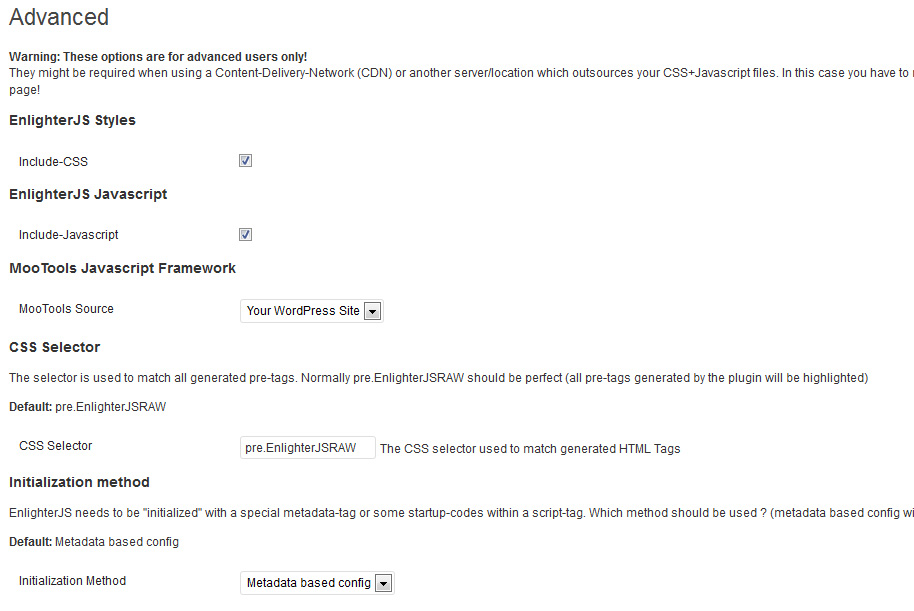
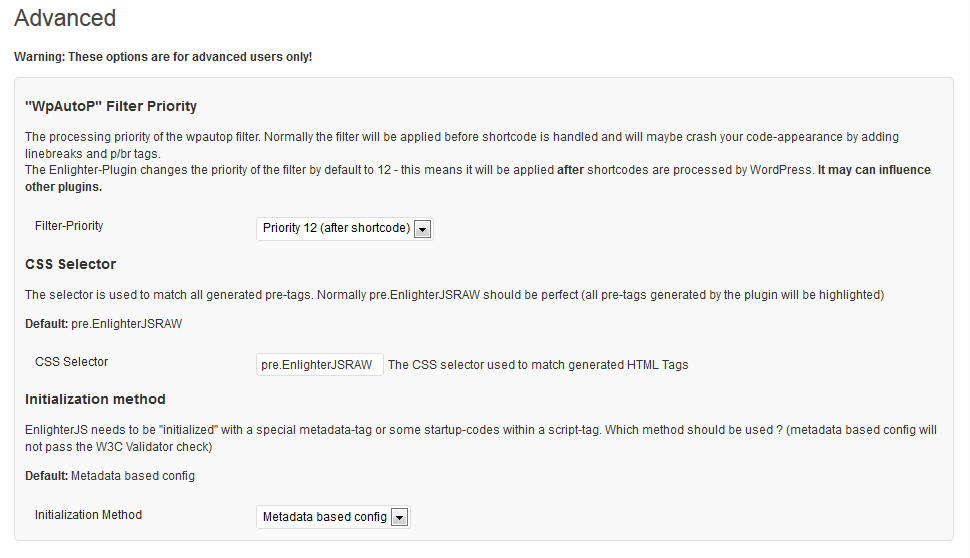
release 1.5, added enlighterjs 1.8, support for special line highlighting, bugfixes

diff --git a/resources/EnlighterJS.yui.js b/resources/EnlighterJS.yui.js
@@ -6,8 +6,8 @@ name: EnlighterJS
 description: Syntax Highlighter for MooTools - based on the famous Lighter.js
 
 license: MIT-style X11 License
-version: 1.7.1
-build: 6f3c1bcb2c530f0ea1e1f77a7f24a634/October 5 2013
+version: 1.8
+build: e44079501117bd7e1443d6d34b8383e7/November 10 2013
 
 authors:
   - Andi Dittrich (author of EnlighterJS fork)
@@ -25,10 +25,11 @@ provides: [EnlighterJS]
  */
 var EnlighterJS=new Class({Implements:Options,options:{language:"standard",theme:"standard",compiler:"List",indent:-1,forceTheme:false},compiler:null,codeblock:null,container:null,isRendered:false,aliasManager:null,initialize:function(c,b,a){this.setOptions(b);
 this.aliasManager=new EnlighterJS.Alias(b);if(EnlighterJS.Compiler[this.options.compiler]){this.compiler=new EnlighterJS.Compiler[this.options.compiler](b)}else{this.compiler=new EnlighterJS.Compiler.List(b)}this.codeblock=document.id(c);if(a){this.container=document.id(a)}return this},light:function(){this.codeblock.setStyle("display","none");if(this.isRendered){this.container.setStyle("display","inherit");
-return this}var c=this.getCode();var b=this.aliasManager.getLanguage(this.codeblock.get("data-enlighter-language"));var d=(this.options.forceTheme?null:this.codeblock.get("data-enlighter-theme"))||this.options.theme;language=new EnlighterJS.Language[b](c,{});var a=this.compiler.compile(language,d.toLowerCase());if(this.container){this.container.grab(a)}else{a.inject(this.codeblock,"after");this.container=a
-}this.isRendered=true;return this},unlight:function(){if(this.isRendered){this.codeblock.setStyle("display","inherit");this.container.setStyle("display","none")}return this},getCode:function(){var a=this.codeblock.get("html").replace(/(^\s*\n|\n\s*$)/gi,"").replace(/&lt;/gim,"<").replace(/&gt;/gim,">").replace(/&amp;/gim,"&");if(this.options.indent>-1){a=a.replace(/\t/g,new Array(this.options.indent+1).join(" "))
-}return a}});EnlighterJS.Compiler=new Class({Implements:Options,options:{editable:false},initialize:function(a){this.setOptions(a);return this},compile:function(c,b){var a=this._compile(c,b);a.addClass(b+"EnlighterJS");a.addClass("EnlighterJSRendered");a.set("id","EnlighterJS_"+String.uniqueID());if(this.options.editable){a.set("contenteditable","true")}return a},_compile:function(b,a){throw new Error("Extending classes must override the _compile method.")
-}});EnlighterJS.Language=new Class({Implements:[Options],options:{},language:"",tokenizerType:"Lazy",tokenizer:null,code:null,patterns:{},keywords:{},delimiters:{},common:{slashComments:/(?:^|[^\\])\/\/.*$/gm,poundComments:/#.*$/gm,multiComments:/\/\*[\s\S]*?\*\//gm,aposStrings:/'[^'\\]*(?:\\.[^'\\]*)*'/gm,quotedStrings:/"[^"\\]*(?:\\.[^"\\]*)*"/gm,multiLineSingleQuotedStrings:/'[^'\\]*(?:\\.[^'\\]*)*'/gm,multiLineDoubleQuotedStrings:/"[^"\\]*(?:\\.[^"\\]*)*"/gm,multiLineStrings:/'[^'\\]*(?:\\.[^'\\]*)*'|"[^"\\]*(?:\\.[^"\\]*)*"/gm,singleQuotedString:/'[^'\\\r\n]*(?:\\.[^'\\\r\n]*)*'/gm,doubleQuotedString:/"[^"\\\r\n]*(?:\\.[^"\\\r\n]*)*"/gm,strings:/'[^'\\\r\n]*(?:\\.[^'\\\r\n]*)*'|"[^"\\\r\n]*(?:\\.[^"\\\r\n]*)*"/gm,properties:/\.([\w]+)\s*/gi,methodCalls:/\.([\w]+)\s*\(/gm,functionCalls:/\b([\w]+)\s*\(/gm,brackets:/\{|\}|\(|\)|\[|\]/g,numbers:/\b((?:(\d+)?\.)?[0-9]+|0x[0-9A-F]+)\b/gi},initialize:function(b,a){this.setOptions(a);
+return this}var c=this.getCode();var b=this.aliasManager.getLanguage(this.codeblock.get("data-enlighter-language"));var e=(this.options.forceTheme?null:this.codeblock.get("data-enlighter-theme"))||this.options.theme;var d=new EnlighterJS.SpecialLineHighlighter(this.codeblock.get("data-enlighter-highlight"));language=new EnlighterJS.Language[b](c,{});var a=this.compiler.compile(language,e.toLowerCase(),d);
+if(this.container){this.container.grab(a)}else{a.inject(this.codeblock,"after");this.container=a}this.isRendered=true;return this},unlight:function(){if(this.isRendered){this.codeblock.setStyle("display","inherit");this.container.setStyle("display","none")}return this},getCode:function(){var a=this.codeblock.get("html").replace(/(^\s*\n|\n\s*$)/gi,"").replace(/&lt;/gim,"<").replace(/&gt;/gim,">").replace(/&amp;/gim,"&");
+if(this.options.indent>-1){a=a.replace(/\t/g,new Array(this.options.indent+1).join(" "))}return a}});EnlighterJS.SpecialLineHighlighter=new Class({specialLines:{},initialize:function(b){if(b==null||b.length==0){return}var a=b.split(",");a.each(function(f,c){var g=f.match(/([0-9]+)-([0-9]+)/);if(g!=null){var h=g[1].toInt();var e=g[2].toInt();if(e>h){for(var d=h;d<=e;d++){this.specialLines["l"+d]=true
+}}}else{this.specialLines["l"+f.toInt()]=true}}.bind(this))},isSpecialLine:function(a){return(this.specialLines["l"+a]||false)}});EnlighterJS.Compiler=new Class({Implements:Options,options:{editable:false},initialize:function(a){this.setOptions(a);return this},compile:function(d,c,b){var a=this._compile(d,c,b);a.addClass(c+"EnlighterJS");a.addClass("EnlighterJSRendered");a.set("id","EnlighterJS_"+String.uniqueID());
+if(this.options.editable){a.set("contenteditable","true")}return a},_compile:function(c,b,a){throw new Error("Extending classes must override the _compile method.")}});EnlighterJS.Language=new Class({Implements:[Options],options:{},language:"",tokenizerType:"Lazy",tokenizer:null,code:null,patterns:{},keywords:{},delimiters:{},common:{slashComments:/(?:^|[^\\])\/\/.*$/gm,poundComments:/#.*$/gm,multiComments:/\/\*[\s\S]*?\*\//gm,aposStrings:/'[^'\\]*(?:\\.[^'\\]*)*'/gm,quotedStrings:/"[^"\\]*(?:\\.[^"\\]*)*"/gm,multiLineSingleQuotedStrings:/'[^'\\]*(?:\\.[^'\\]*)*'/gm,multiLineDoubleQuotedStrings:/"[^"\\]*(?:\\.[^"\\]*)*"/gm,multiLineStrings:/'[^'\\]*(?:\\.[^'\\]*)*'|"[^"\\]*(?:\\.[^"\\]*)*"/gm,singleQuotedString:/'[^'\\\r\n]*(?:\\.[^'\\\r\n]*)*'/gm,doubleQuotedString:/"[^"\\\r\n]*(?:\\.[^"\\\r\n]*)*"/gm,strings:/'[^'\\\r\n]*(?:\\.[^'\\\r\n]*)*'|"[^"\\\r\n]*(?:\\.[^"\\\r\n]*)*"/gm,properties:/\.([\w]+)\s*/gi,methodCalls:/\.([\w]+)\s*\(/gm,functionCalls:/\b([\w]+)\s*\(/gm,brackets:/\{|\}|\(|\)|\[|\]/g,numbers:/\b((?:(\d+)?\.)?[0-9]+|0x[0-9A-F]+)\b/gi},initialize:function(b,a){this.setOptions(a);
 this.aliases={};this.rules={};this.code=b;this.tokenizer=new EnlighterJS.Tokenizer[this.tokenizerType](a);if(this.delimiters.start){this.addRule("delimBeg",this.delimiters.start,"de1")}if(this.delimiters.end){this.addRule("delimEnd",this.delimiters.end,"de2")}Object.each(this.keywords,function(d,c){if(d.csv!=""){this.addRule(c,this.csvToRegExp(d.csv,d.mod||"g"),d.alias)}},this);Object.each(this.patterns,function(c,d){this.addRule(d,c.pattern,c.alias)
 },this)},getTokens:function(){return this.tokenizer.parse(this,this.code,0)},getRules:function(){return this.rules},hasDelimiters:function(){return this.delimiters.start&&this.delimiters.end},addRule:function(c,b,a){this.rules[c]=b;this.addAlias(c,a)},addAlias:function(b,a){this.aliases[b]=a||b},csvToRegExp:function(a,b){return new RegExp("\\b("+a.replace(/,\s*/g,"|")+")\\b",b)},delimToRegExp:function(d,b,a,e,f){d=d.escapeRegExp();
 if(b){b=b.escapeRegExp()}a=(a)?a.escapeRegExp():d;var c=(b)?d+"[^"+a+b+"\\n]*(?:"+b+".[^"+a+b+"\\n]*)*"+a:d+"[^"+a+"\\n]*"+a;return new RegExp(c+(f||""),e||"")},strictRegExp:function(){var b="(";for(var a=0;a<arguments.length;a++){b+=arguments[a].escapeRegExp();b+=(a<arguments.length-1)?"|":""}b+=")";return new RegExp(b,"gim")}});EnlighterJS.Language.standard=new Class({Extends:EnlighterJS.Language,initialize:function(a){this.parent(a)
@@ -36,16 +37,16 @@ if(b){b=b.escapeRegExp()}a=(a)?a.escapeRegExp():d;var c=(b)?d+"[^"+a+b+"\\n]*(?:
 }if(a==null||a.trim()==""){return b}a=a.trim().toLowerCase();if(this.languageAliases[a]){a=this.languageAliases[a]}if(EnlighterJS.Language[a]){return a}else{return b}}});(function(){Element.implement({light:function(a){var b=this.retrieve("EnlighterInstance");if(b===null){b=new EnlighterJS(this,a,null);this.store("EnlighterInstance",b)}b.light();return this},unlight:function(){var a=this.retrieve("EnlighterInstance");
 if(a!==null){a.unlight()}return this}})})();EnlighterJS.Tokenizer=new Class({Implements:[Options],options:{strict:false},initialize:function(a){this.setOptions(a)},parse:function(h,c,g){var d=[],f=null,b=null;d=this._parse(h,c,g);for(var a=0,e=0;a<d.length;a++){if(e<d[a].index){f=c.substring(e,d[a].index);b=new EnlighterJS.Token(f,"unknown",e);d.splice(a,0,b)}e=d[a].end}if(e<c.length){f=c.substring(e,c.length);
 b=new EnlighterJS.Token(f,"unknown",e);d.push(b)}return d},_parse:function(c,a,b){throw new Error("Extending classes must override the _parse method.")}});EnlighterJS.Token=new Class({text:null,type:null,index:-1,length:-1,end:-1,initialize:function(c,b,a){this.text=c;this.type=b;this.index=a;this.length=this.text.length;this.end=this.index+this.length},contains:function(a){return(a.index>=this.index&&a.index<this.end)
-},isBeyond:function(a){return(this.index>=a.end)},overlaps:function(a){return(this.index==a.index&&this.length>a.length)},toString:function(){return this.index+" - "+this.text+" - "+this.end}});EnlighterJS.Compiler.Inline=new Class({Extends:EnlighterJS.Compiler,options:{containerTag:"pre"},initialize:function(a){this.parent(a)},_compile:function(c,b){var a=new Element(this.options.containerTag);c.getTokens().each(function(e,d){var f=e.type?(c.aliases[e.type]||e.type):"";
-a.grab(new Element("span",{"class":f,text:e.text}))});return a}});EnlighterJS.Compiler.List=new Class({Extends:EnlighterJS.Compiler,options:{altLines:"hoverEnabled",containerTag:"ol",oddClassname:"odd",evenClassname:"even"},initialize:function(a){this.parent(a)},_compile:function(d,b){var a=new Element(this.options.containerTag);var c=new Element("li");d.getTokens().each(function(g,f){var h=g.type?(d.aliases[g.type]||g.type):"";
-var e=g.text.split("\n");if(e.length>1){c.grab(new Element("span",{"class":h,text:e.shift()}));e.each(function(j,i){a.grab(c);c=new Element("li");c.grab(new Element("span",{"class":h,text:j}))})}else{c.grab(new Element("span",{"class":h,text:g.text}))}});a.grab(c);a.getFirst().addClass("firstline");a.getLast().addClass("lastline");if(this.options.evenClassname){a.getElements("li:even").addClass(this.options.evenClassname)
-}if(this.options.oddClassname){a.getElements("li:odd").addClass(this.options.oddClassname)}if(this.options.altLines){a.getChildren().addClass(this.options.altLines)}return a}});EnlighterJS.Tokenizer.Smart=new Class({Extends:EnlighterJS.Tokenizer,initialize:function(a){this.parent(a)},_parse:function(o,a,c){var i=[],l=0,k=a.length,p=0,d=null,n=null,h=null,g=null,m={},e=null,f=null;c=c||0;Object.each(o.getRules(),function(q,r){m[r]={pattern:q,nextIndex:0}
-},this);while(l<a.length){k=a.length;d=null;for(var j in m){m[j].pattern.lastIndex=l;e=m[j].pattern.exec(a);if(e===null){delete m[j]}else{if(e.index<k||(e.index==k&&d[0].length<e[0].length)){d=e;h=j;k=e.index}m[j].nextIndex=m[j].pattern.lastIndex-e[0].length}}if(d!==null){index=(d[1]&&d[0].contains(d[1]))?d.index+d[0].indexOf(d[1]):d.index;n=d[1]||d[0];g=new EnlighterJS.Token(n,h,index+c);i.push(g);
-f=m[h].pattern.exec(a);if(!f){m[h].nextIndex=a.length}else{m[h].nextIndex=m[h].pattern.lastIndex-f[0].length}var b=a.length;for(j in m){if(m[j].nextIndex<b){b=m[j].nextIndex}}l=Math.max(b,g.end-c)}else{break}}return i}});EnlighterJS.Tokenizer.Lazy=new Class({Extends:EnlighterJS.Tokenizer,initialize:function(a){this.parent(a)},_parse:function(d,a,c){var h=[],f=null,k=null,g=null;c=c||0;Object.each(d.getRules(),function(i,j){while(null!==(f=i.exec(a))){g=f[1]&&f[0].contains(f[1])?f.index+f[0].indexOf(f[1]):f.index;
-k=f[1]||f[0];h.push(new EnlighterJS.Token(k,j,g+c))}},this);h=h.sort(function(j,i){return j.index-i.index});for(var e=0,b=0;e<h.length;e++){if(h[e]===null){continue}for(b=e+1;b<h.length&&h[e]!==null;b++){if(h[b]===null){continue}else{if(h[b].isBeyond(h[e])){break}else{if(h[b].overlaps(h[e])){h[e]=null}else{if(h[e].contains(h[b])){h[b]=null}}}}}}h=h.clean();return h}});EnlighterJS.Tokenizer.Xml=new Class({Extends:EnlighterJS.Tokenizer,initialize:function(a){this.parent(a)
-},_parse:function(b,a,d){var e=/((?:\&lt;|<)[A-Z][A-Z0-9]*)(.*?)(\/?(?:\&gt;|>))/gi,l=/\b([\w-]+)([ \t]*)(=)([ \t]*)(['"][^'"]+['"]|[^'" \t]+)/gi,m=[],h=null,g=null,k=0;while((h=e.exec(a))!=null){m.push(new EnlighterJS.Token(h[1],"kw1",h.index));while((g=l.exec(h[2]))!=null){k=h.index+h[1].length+g.index;m.push(new EnlighterJS.Token(g[1],"kw2",k));k+=g[1].length+g[2].length;m.push(new EnlighterJS.Token(g[3],"kw1",k));
-k+=g[3].length+g[4].length;m.push(new EnlighterJS.Token(g[5],"kw3",k))}m.push(new EnlighterJS.Token(h[3],"kw1",h.index+h[1].length+h[2].length))}Object.each(b.getRules(),function(i,j){while(null!==(h=i.exec(a))){k=h[1]&&h[0].contains(h[1])?h.index+h[0].indexOf(h[1]):h.index;text=h[1]||h[0];m.push(new EnlighterJS.Token(text,j,k+d))}},this);m=m.sort(function(j,i){return j.index-i.index});for(var f=0,c=0;
-f<m.length;f++){if(m[f]===null){continue}for(c=f+1;c<m.length&&m[f]!==null;c++){if(m[c]===null){continue}else{if(m[c].isBeyond(m[f])){break}else{if(m[c].overlaps(m[f])){m[f]=null}else{if(m[f].contains(m[c])){m[c]=null}}}}}}m=m.clean();return m}});EnlighterJS.Helper=new Class({Implements:Options,options:{grouping:true,theme:"standard",language:"standard"},initialize:function(b,a){this.setOptions(a);
+},isBeyond:function(a){return(this.index>=a.end)},overlaps:function(a){return(this.index==a.index&&this.length>a.length)},toString:function(){return this.index+" - "+this.text+" - "+this.end}});EnlighterJS.Compiler.Inline=new Class({Extends:EnlighterJS.Compiler,options:{containerTag:"pre"},initialize:function(a){this.parent(a)},_compile:function(d,c,b){var a=new Element(this.options.containerTag);d.getTokens().each(function(f,e){var g=f.type?(d.aliases[f.type]||f.type):"";
+a.grab(new Element("span",{"class":g,text:f.text}))});return a}});EnlighterJS.Compiler.List=new Class({Extends:EnlighterJS.Compiler,options:{altLines:"hoverEnabled",containerTag:"ol",oddClassname:"odd",evenClassname:"even"},initialize:function(a){this.parent(a)},_compile:function(f,d,c){var b=new Element(this.options.containerTag);var a=1;var e=new Element("li",{"class":(c.isSpecialLine(a)?"specialline":"")});
+f.getTokens().each(function(i,h){var j=i.type?(f.aliases[i.type]||i.type):"";var g=i.text.split("\n");if(g.length>1){e.grab(new Element("span",{"class":j,text:g.shift()}));g.each(function(l,k){b.grab(e);a++;e=new Element("li",{"class":(c.isSpecialLine(a)?"specialline":"")});e.grab(new Element("span",{"class":j,text:l}))})}else{e.grab(new Element("span",{"class":j,text:i.text}))}});b.grab(e);b.getFirst().addClass("firstline");
+b.getLast().addClass("lastline");if(this.options.evenClassname){b.getElements("li:even").addClass(this.options.evenClassname)}if(this.options.oddClassname){b.getElements("li:odd").addClass(this.options.oddClassname)}if(this.options.altLines){b.getChildren().addClass(this.options.altLines)}return b}});EnlighterJS.Tokenizer.Smart=new Class({Extends:EnlighterJS.Tokenizer,initialize:function(a){this.parent(a)
+},_parse:function(o,a,c){var i=[],l=0,k=a.length,p=0,d=null,n=null,h=null,g=null,m={},e=null,f=null;c=c||0;Object.each(o.getRules(),function(q,r){m[r]={pattern:q,nextIndex:0}},this);while(l<a.length){k=a.length;d=null;for(var j in m){m[j].pattern.lastIndex=l;e=m[j].pattern.exec(a);if(e===null){delete m[j]}else{if(e.index<k||(e.index==k&&d[0].length<e[0].length)){d=e;h=j;k=e.index}m[j].nextIndex=m[j].pattern.lastIndex-e[0].length
+}}if(d!==null){index=(d[1]&&d[0].contains(d[1]))?d.index+d[0].indexOf(d[1]):d.index;n=d[1]||d[0];g=new EnlighterJS.Token(n,h,index+c);i.push(g);f=m[h].pattern.exec(a);if(!f){m[h].nextIndex=a.length}else{m[h].nextIndex=m[h].pattern.lastIndex-f[0].length}var b=a.length;for(j in m){if(m[j].nextIndex<b){b=m[j].nextIndex}}l=Math.max(b,g.end-c)}else{break}}return i}});EnlighterJS.Tokenizer.Lazy=new Class({Extends:EnlighterJS.Tokenizer,initialize:function(a){this.parent(a)
+},_parse:function(d,a,c){var h=[],f=null,k=null,g=null;c=c||0;Object.each(d.getRules(),function(i,j){while(null!==(f=i.exec(a))){g=f[1]&&f[0].contains(f[1])?f.index+f[0].indexOf(f[1]):f.index;k=f[1]||f[0];h.push(new EnlighterJS.Token(k,j,g+c))}},this);h=h.sort(function(j,i){return j.index-i.index});for(var e=0,b=0;e<h.length;e++){if(h[e]===null){continue}for(b=e+1;b<h.length&&h[e]!==null;b++){if(h[b]===null){continue
+}else{if(h[b].isBeyond(h[e])){break}else{if(h[b].overlaps(h[e])){h[e]=null}else{if(h[e].contains(h[b])){h[b]=null}}}}}}h=h.clean();return h}});EnlighterJS.Tokenizer.Xml=new Class({Extends:EnlighterJS.Tokenizer,initialize:function(a){this.parent(a)},_parse:function(b,a,d){var e=/((?:\&lt;|<)[A-Z][A-Z0-9]*)(.*?)(\/?(?:\&gt;|>))/gi,l=/\b([\w-]+)([ \t]*)(=)([ \t]*)(['"][^'"]+['"]|[^'" \t]+)/gi,m=[],h=null,g=null,k=0;
+while((h=e.exec(a))!=null){m.push(new EnlighterJS.Token(h[1],"kw1",h.index));while((g=l.exec(h[2]))!=null){k=h.index+h[1].length+g.index;m.push(new EnlighterJS.Token(g[1],"kw2",k));k+=g[1].length+g[2].length;m.push(new EnlighterJS.Token(g[3],"kw1",k));k+=g[3].length+g[4].length;m.push(new EnlighterJS.Token(g[5],"kw3",k))}m.push(new EnlighterJS.Token(h[3],"kw1",h.index+h[1].length+h[2].length))}Object.each(b.getRules(),function(i,j){while(null!==(h=i.exec(a))){k=h[1]&&h[0].contains(h[1])?h.index+h[0].indexOf(h[1]):h.index;
+text=h[1]||h[0];m.push(new EnlighterJS.Token(text,j,k+d))}},this);m=m.sort(function(j,i){return j.index-i.index});for(var f=0,c=0;f<m.length;f++){if(m[f]===null){continue}for(c=f+1;c<m.length&&m[f]!==null;c++){if(m[c]===null){continue}else{if(m[c].isBeyond(m[f])){break}else{if(m[c].overlaps(m[f])){m[f]=null}else{if(m[f].contains(m[c])){m[c]=null}}}}}}m=m.clean();return m}});EnlighterJS.Helper=new Class({Implements:Options,options:{grouping:true,theme:"standard",language:"standard"},initialize:function(b,a){this.setOptions(a);
 if(this.options.grouping){var c=this.getGroups(b);c.single.each(function(d){d.light(a)});this.options.forceTheme=true;Object.each(c.groups,function(e){var d=new EnlighterJS.TabPane();var f=this.options;f.theme=e[0].get("data-enlighter-theme")||this.options.theme;e.each(function(i,h){var g=d.addTab(i.get("data-enlighter-title")||i.get("data-enlighter-language")||f.language);(new EnlighterJS(i,f,g)).light()
 }.bind(this));d.getContainer().addClass(f.theme+"EnlighterJSTabPane");d.getContainer().inject(e[0],"before");d.selectTab(0)}.bind(this))}else{b.light(a)}},getGroups:function(c){var a={};var b=[];c.each(function(d){var e=d.get("data-enlighter-group");if(e){if(a[e]){a[e].push(d)}else{a[e]=[d]}}else{b.push(d)}});return{groups:a,single:b}}});EnlighterJS.TabPane=new Class({container:null,controlContainer:null,paneContainer:null,tabs:[],selectedTabIndex:0,initialize:function(a){this.container=new Element("div",{"class":"EnlighterJSTabPane"});
 this.container.addClass(a);this.controlContainer=new Element("ul",{"class":"controls"});this.paneContainer=new Element("div",{"class":"pane"});this.container.grab(this.controlContainer);this.container.grab(this.paneContainer)},selectTab:function(a){if(a<this.tabs.length){this.tabs[this.selectedTabIndex].pane.setStyle("display","none");this.tabs[this.selectedTabIndex].control.removeClass("selected");

diff --git a/resources/EnlighterJS.yui.css b/resources/EnlighterJS.yui.css
@@ -6,8 +6,8 @@ name: EnlighterJS
 description: Syntax Highlighter for MooTools - based on the famous Lighter.js
 
 license: MIT-style X11 License
-version: 1.7.1
-build: 97924d21c8ffba8e80364f64e2a7a4ab/October 5 2013
+version: 1.8
+build: 44fcaedaaa33f2910e4f7d44aac52557/November 10 2013
 
 authors:
   - Andi Dittrich (author of EnlighterJS fork)
@@ -24,20 +24,21 @@ provides: [EnlighterJS]
 ...
  */.EnlighterJSTabPane .controls{margin:0 0 0 40px;padding:0}.EnlighterJSTabPane .controls li{float:left;display:block;list-style:none;padding:3px 10px 3px 10px;margin:0 5px 0 5px;background-color:#f2f2f2;border-radius:5px;font-size:12px;color:#000;font-family:Courier,monospace;cursor:pointer}.EnlighterJSTabPane .controls li:hover{background-color:#e5e5e5}.EnlighterJSTabPane .controls .selected,.EnlighterJSTabPane .controls .selected:hover{background-color:#cfc}
 .EnlighterJSTabPane .pane{padding:5px 0 0 0;clear:left}.EnlighterJSRendered{font-family:Monaco,Courier,Monospace;font-size:10px;line-height:16px;overflow:auto;white-space:pre-wrap;word-wrap:break-word;margin:0;padding:0}pre.EnlighterJSRendered{background-color:#fff;padding:5px 5px 5px 15px}ol.EnlighterJSRendered{color:#939393;font-size:10px;background-color:#f2f2f2;color:#939393;margin:0 0 20px 0;padding:0;text-indent:0;list-style:decimal-leading-zero outside}
-ol.EnlighterJSRendered li{margin:0 0 0 40px;background-color:#fff;border-top:1px solid #fff;border-bottom:1px solid #fff;border-left:1px solid #939393;padding:0 5px 0 14px;line-height:14px;color:#939393;list-style:decimal-leading-zero outside;font-size:inherit}ol.EnlighterJSRendered li.firstline{padding-top:5px}ol.EnlighterJSRendered li.lastline{padding-bottom:5px}ol.EnlighterJSRendered li.hoverEnabled:hover{border-top:1px solid #eee;border-bottom:1px solid #eee;background-color:#f4f8fc}
-.EnlighterJSRendered span{color:#000;font-size:inherit;margin:0;padding:0;line-height:inherit;font-size:12px}.EnlighterJSRendered .kw1{color:#1b609a}.EnlighterJSRendered .kw2{color:#9a6f1b}.EnlighterJSRendered .kw3{color:#784e0c}.EnlighterJSRendered .kw4{color:#9a6f1b}.EnlighterJSRendered .co1{color:#888}.EnlighterJSRendered .co2{color:#888}.EnlighterJSRendered .st0{color:#489a1b}.EnlighterJSRendered .st1{color:#489a1b}
-.EnlighterJSRendered .st2{color:#489a1b}.EnlighterJSRendered .nu0{color:#70483d}.EnlighterJSRendered .me0{color:#666}.EnlighterJSRendered .me1{color:#666}.EnlighterJSRendered .br0{color:#444}.EnlighterJSRendered .sy0{color:#444}.EnlighterJSRendered .es0{color:#444}.EnlighterJSRendered .re0{color:#784e0c}.gitEnlighterJS{border-bottom:1px solid #eee;border-top:1px solid #eee;font-family:Courier,monospace}
-ol.gitEnlighterJS li{border:0;line-height:20px}ol.gitEnlighterJS li.hoverEnabled:hover{background-color:#ffc;border:0}ol.gitEnlighterJS{list-style-type:decimal}.gitEnlighterJS .de1{color:#cf6a4c}.gitEnlighterJS .de2{color:#cf6a4c}.gitEnlighterJS .kw1{color:#000;font-weight:bold}.gitEnlighterJS .kw2{color:#0086b3}.gitEnlighterJS .kw3{color:#458;font-weight:bold}.gitEnlighterJS .kw4{color:#990073}.gitEnlighterJS .co1{color:#998;font-style:italic}
-.gitEnlighterJS .co2{color:#998;font-style:italic}.gitEnlighterJS .st0{color:#d14}.gitEnlighterJS .st1{color:#d14}.gitEnlighterJS .st2{color:#d14}.gitEnlighterJS .nu0{color:#099}.gitEnlighterJS .me0{color:#0086b3}.gitEnlighterJS .me1{color:#0086b3}.gitEnlighterJS .br0{color:#777}.gitEnlighterJS .sy0{color:#777}.gitEnlighterJS .es0{color:#777}.gitEnlighterJS .re0{color:#009926}.mochaEnlighterJSTabPane .controls li{background-color:#e5e5e5;font-size:12px;color:#000;border-radius:0}
-.mochaEnlighterJSTabPane .controls .selected,.mochaEnlighterJSTabPane .controls .selected:hover{background-color:#bbccd5}.mochaEnlighterJS{color:#f8f8f8}ol.mochaEnlighterJS{background-color:#bbccd5;color:#000;list-style-type:decimal}ol.mochaEnlighterJS li{border:0;border-left:2px solid #939393;background-color:#2d2522}ol.mochaEnlighterJS li.hoverEnabled:hover{background-color:#423f43;border:0;border-left:2px solid #939393}
-pre.mochaEnlighterJS{background-color:#2d2522}.mochaEnlighterJS span{color:#f8f8f8}.mochaEnlighterJS .de1{color:#cf6a4c}.mochaEnlighterJS .de2{color:#cf6a4c}.mochaEnlighterJS .kw1{color:#cda869}.mochaEnlighterJS .kw2{color:#cacd69}.mochaEnlighterJS .kw3{color:#afc4db}.mochaEnlighterJS .kw4{color:#cf6a4c}.mochaEnlighterJS .co1{color:#5f5a60;font-style:italic}.mochaEnlighterJS .co2{color:#5f5a60;font-style:italic}
-.mochaEnlighterJS .st0{color:#8f9d6a}.mochaEnlighterJS .st1{color:#8f9d6a}.mochaEnlighterJS .st2{color:#ddf2a4}.mochaEnlighterJS .nu0{color:#5b97b5}.mochaEnlighterJS .me0{color:#c5af75}.mochaEnlighterJS .me1{color:#c5af75}.mochaEnlighterJS .br0{color:#777}.mochaEnlighterJS .sy0{color:#777}.mochaEnlighterJS .es0{color:#777}.mochaEnlighterJS .re0{color:#b55b8b}.panicEnlighterJSTabPane .controls li{background-color:#f2f2f2}
-.panicEnlighterJSTabPane .controls li:hover{background-color:#e5e5e5}.panicEnlighterJSTabPane .controls .selected,.panicEnlighterJSTabPane .controls .selected:hover{background-color:#e4f8fc}.panicEnlighterJS .de1{color:#a00083}.panicEnlighterJS .de2{color:#a00083}.panicEnlighterJS .kw1{color:#9f0050}.panicEnlighterJS .kw2{color:#9f0050}.panicEnlighterJS .kw3{color:#9a6c00}.panicEnlighterJS .kw4{color:#9f0050}
-.panicEnlighterJS .co1{color:#00721f;font-style:italic}.panicEnlighterJS .co2{color:#00721f;font-style:italic}.panicEnlighterJS .st0{color:#ef7300}.panicEnlighterJS .st1{color:#8a000f}.panicEnlighterJS .st2{color:#8a000f}.panicEnlighterJS .nu0{color:#1600ff}.panicEnlighterJS .me0{color:#00417f}.panicEnlighterJS .me1{color:#00417f}.panicEnlighterJS .br0{color:#000}.panicEnlighterJS .sy0{color:#000}
-.panicEnlighterJS .es0{color:#000}.panicEnlighterJS .re0{color:#8a000f}.tuttiEnlighterJSTabPane .controls li{background-color:#fff}.tuttiEnlighterJSTabPane .controls .selected,.tuttiEnlighterJSTabPane .controls .selected:hover,.tuttiEnlighterJSTabPane .controls li:hover{background-color:#f4f8fc}.tuttiEnlighterJS{color:#000}ol.tuttiEnlighterJS{background-color:#fbfbfb;list-style-type:decimal}ol.tuttiEnlighterJS li{border:0;line-height:16px}
-ol.tuttiEnlighterJS li:hover{color:#000}ol.tuttiEnlighterJS li.hoverEnabled:hover{background-color:#f4f8fc;border:0}.tuttiEnlighterJS .de1{color:#6eb13f}.tuttiEnlighterJS .de2{color:#6eb13f}.tuttiEnlighterJS .kw1{color:#8600c9}.tuttiEnlighterJS .kw2{color:#3a1d72;font-weight:bold}.tuttiEnlighterJS .kw3{color:#4f9fcf}.tuttiEnlighterJS .kw4{color:#4f9fcf}.tuttiEnlighterJS .co1{color:#bbb}.tuttiEnlighterJS .co2{color:#bbb}
-.tuttiEnlighterJS .st0{color:#bc670f;background-color:rgba(251,233,173,0.1)}.tuttiEnlighterJS .st1{color:#bc670f;background-color:rgba(251,233,173,0.1)}.tuttiEnlighterJS .st2{color:#bc670f;background-color:rgba(251,233,173,0.1)}.tuttiEnlighterJS .nu0{color:#6700b9}.tuttiEnlighterJS .me0{color:#000}.tuttiEnlighterJS .me1{color:#6eb13f;font-weight:bold}.tuttiEnlighterJS .br0{color:#4f4f4f}.tuttiEnlighterJS .sy0{color:#626fc9}
-.tuttiEnlighterJS .es0{color:#4f4f4f}.tuttiEnlighterJS .re0{color:#d44950}.twilightEnlighterJSTabPane .controls li{background-color:#303030;font-size:12px;color:#f2f2f2}.twilightEnlighterJSTabPane .controls li:hover{color:#8f9657;background-color:#303030}.twilightEnlighterJSTabPane .controls .selected,.twilightEnlighterJSTabPane .controls .selected:hover{background-color:#000}pre.twilightEnlighterJS{background-color:#141414}
-.twilightEnlighterJS span{color:#f8f8f8}ol.twilightEnlighterJS{color:#000;background-color:#f2f2f2;list-style-type:decimal;border:solid 1px #222}ol.twilightEnlighterJS li{border:0;border-left:1px solid #939393;line-height:19px;background-color:#141414}ol.twilightEnlighterJS li.hoverEnabled:hover{background-color:#202021;border:0;border-left:1px solid #939393}.twilightEnlighterJS .de1{color:#fff}.twilightEnlighterJS .de2{color:#fff}
-.twilightEnlighterJS .kw1{color:#cda869}.twilightEnlighterJS .kw2{color:#f9ee98}.twilightEnlighterJS .kw3{color:#6f87a8}.twilightEnlighterJS .kw4{color:#e96546}.twilightEnlighterJS .co1{color:#5f5a60}.twilightEnlighterJS .co2{color:#5f5a60}.twilightEnlighterJS .st0{color:#8f9657}.twilightEnlighterJS .st1{color:#8f9657}.twilightEnlighterJS .st2{color:#8f9657}.twilightEnlighterJS .nu0{color:#cf6745}
-.twilightEnlighterJS .me0{color:#fff}.twilightEnlighterJS .me1{color:#fff}.twilightEnlighterJS .br0{color:#fff}.twilightEnlighterJS .sy0{color:#fff}.twilightEnlighterJS .es0{color:#fff}.twilightEnlighterJS .re0{color:#e57a27}
+ol.EnlighterJSRendered li{margin:0 0 0 40px;background-color:#fff;border-top:1px solid #fff;border-bottom:1px solid #fff;border-left:1px solid #939393;padding:0 5px 0 14px;line-height:14px;color:#939393;list-style:decimal-leading-zero outside;font-size:inherit}ol.EnlighterJSRendered li.firstline{padding-top:5px}ol.EnlighterJSRendered li.lastline{padding-bottom:5px}ol.EnlighterJSRendered li.specialline{background-color:#f4f8fc}
+ol.EnlighterJSRendered li.hoverEnabled:hover{border-top:1px solid #eee;border-bottom:1px solid #eee;background-color:#f4f8fc}.EnlighterJSRendered span{color:#000;font-size:inherit;margin:0;padding:0;line-height:inherit;font-size:12px}.EnlighterJSRendered .kw1{color:#1b609a}.EnlighterJSRendered .kw2{color:#9a6f1b}.EnlighterJSRendered .kw3{color:#784e0c}.EnlighterJSRendered .kw4{color:#9a6f1b}.EnlighterJSRendered .co1{color:#888}
+.EnlighterJSRendered .co2{color:#888}.EnlighterJSRendered .st0{color:#489a1b}.EnlighterJSRendered .st1{color:#489a1b}.EnlighterJSRendered .st2{color:#489a1b}.EnlighterJSRendered .nu0{color:#70483d}.EnlighterJSRendered .me0{color:#666}.EnlighterJSRendered .me1{color:#666}.EnlighterJSRendered .br0{color:#444}.EnlighterJSRendered .sy0{color:#444}.EnlighterJSRendered .es0{color:#444}.EnlighterJSRendered .re0{color:#784e0c}
+.gitEnlighterJS{border-bottom:1px solid #eee;border-top:1px solid #eee;font-family:Courier,monospace}ol.gitEnlighterJS li{border:0;line-height:20px}ol.gitEnlighterJS li.hoverEnabled:hover{background-color:#ffc;border:0}ol.gitEnlighterJS li.specialline{background-color:#fffff2}ol.gitEnlighterJS{list-style-type:decimal}.gitEnlighterJS .de1{color:#cf6a4c}.gitEnlighterJS .de2{color:#cf6a4c}.gitEnlighterJS .kw1{color:#000;font-weight:bold}
+.gitEnlighterJS .kw2{color:#0086b3}.gitEnlighterJS .kw3{color:#458;font-weight:bold}.gitEnlighterJS .kw4{color:#990073}.gitEnlighterJS .co1{color:#998;font-style:italic}.gitEnlighterJS .co2{color:#998;font-style:italic}.gitEnlighterJS .st0{color:#d14}.gitEnlighterJS .st1{color:#d14}.gitEnlighterJS .st2{color:#d14}.gitEnlighterJS .nu0{color:#099}.gitEnlighterJS .me0{color:#0086b3}.gitEnlighterJS .me1{color:#0086b3}
+.gitEnlighterJS .br0{color:#777}.gitEnlighterJS .sy0{color:#777}.gitEnlighterJS .es0{color:#777}.gitEnlighterJS .re0{color:#009926}.mochaEnlighterJSTabPane .controls li{background-color:#e5e5e5;font-size:12px;color:#000;border-radius:0}.mochaEnlighterJSTabPane .controls .selected,.mochaEnlighterJSTabPane .controls .selected:hover{background-color:#bbccd5}.mochaEnlighterJS{color:#f8f8f8}ol.mochaEnlighterJS{background-color:#bbccd5;color:#000;list-style-type:decimal}
+ol.mochaEnlighterJS li{border:0;border-left:2px solid #939393;background-color:#2d2522}ol.mochaEnlighterJS li.hoverEnabled:hover{background-color:#423f43;border:0;border-left:2px solid #939393}ol.mochaEnlighterJS li.specialline{background-color:#423f43}pre.mochaEnlighterJS{background-color:#2d2522}.mochaEnlighterJS span{color:#f8f8f8}.mochaEnlighterJS .de1{color:#cf6a4c}.mochaEnlighterJS .de2{color:#cf6a4c}
+.mochaEnlighterJS .kw1{color:#cda869}.mochaEnlighterJS .kw2{color:#cacd69}.mochaEnlighterJS .kw3{color:#afc4db}.mochaEnlighterJS .kw4{color:#cf6a4c}.mochaEnlighterJS .co1{color:#5f5a60;font-style:italic}.mochaEnlighterJS .co2{color:#5f5a60;font-style:italic}.mochaEnlighterJS .st0{color:#8f9d6a}.mochaEnlighterJS .st1{color:#8f9d6a}.mochaEnlighterJS .st2{color:#ddf2a4}.mochaEnlighterJS .nu0{color:#5b97b5}
+.mochaEnlighterJS .me0{color:#c5af75}.mochaEnlighterJS .me1{color:#c5af75}.mochaEnlighterJS .br0{color:#777}.mochaEnlighterJS .sy0{color:#777}.mochaEnlighterJS .es0{color:#777}.mochaEnlighterJS .re0{color:#b55b8b}.panicEnlighterJSTabPane .controls li{background-color:#f2f2f2}.panicEnlighterJSTabPane .controls li:hover{background-color:#e5e5e5}.panicEnlighterJSTabPane .controls .selected,.panicEnlighterJSTabPane .controls .selected:hover{background-color:#e4f8fc}
+.panicEnlighterJS .de1{color:#a00083}.panicEnlighterJS .de2{color:#a00083}.panicEnlighterJS .kw1{color:#9f0050}.panicEnlighterJS .kw2{color:#9f0050}.panicEnlighterJS .kw3{color:#9a6c00}.panicEnlighterJS .kw4{color:#9f0050}.panicEnlighterJS .co1{color:#00721f;font-style:italic}.panicEnlighterJS .co2{color:#00721f;font-style:italic}.panicEnlighterJS .st0{color:#ef7300}.panicEnlighterJS .st1{color:#8a000f}
+.panicEnlighterJS .st2{color:#8a000f}.panicEnlighterJS .nu0{color:#1600ff}.panicEnlighterJS .me0{color:#00417f}.panicEnlighterJS .me1{color:#00417f}.panicEnlighterJS .br0{color:#000}.panicEnlighterJS .sy0{color:#000}.panicEnlighterJS .es0{color:#000}.panicEnlighterJS .re0{color:#8a000f}.tuttiEnlighterJSTabPane .controls li{background-color:#fff}.tuttiEnlighterJSTabPane .controls .selected,.tuttiEnlighterJSTabPane .controls .selected:hover,.tuttiEnlighterJSTabPane .controls li:hover{background-color:#f4f8fc}
+.tuttiEnlighterJS{color:#000}ol.tuttiEnlighterJS{background-color:#fbfbfb;list-style-type:decimal}ol.tuttiEnlighterJS li{border:0;line-height:16px}ol.tuttiEnlighterJS li:hover{color:#000}ol.tuttiEnlighterJS li.hoverEnabled:hover{background-color:#f4f8fc;border:0}ol.tuttiEnlighterJS li.specialline{background-color:#f4f8fc}.tuttiEnlighterJS .de1{color:#6eb13f}.tuttiEnlighterJS .de2{color:#6eb13f}.tuttiEnlighterJS .kw1{color:#8600c9}
+.tuttiEnlighterJS .kw2{color:#3a1d72;font-weight:bold}.tuttiEnlighterJS .kw3{color:#4f9fcf}.tuttiEnlighterJS .kw4{color:#4f9fcf}.tuttiEnlighterJS .co1{color:#bbb}.tuttiEnlighterJS .co2{color:#bbb}.tuttiEnlighterJS .st0{color:#bc670f;background-color:rgba(251,233,173,0.1)}.tuttiEnlighterJS .st1{color:#bc670f;background-color:rgba(251,233,173,0.1)}.tuttiEnlighterJS .st2{color:#bc670f;background-color:rgba(251,233,173,0.1)}
+.tuttiEnlighterJS .nu0{color:#6700b9}.tuttiEnlighterJS .me0{color:#000}.tuttiEnlighterJS .me1{color:#6eb13f;font-weight:bold}.tuttiEnlighterJS .br0{color:#4f4f4f}.tuttiEnlighterJS .sy0{color:#626fc9}.tuttiEnlighterJS .es0{color:#4f4f4f}.tuttiEnlighterJS .re0{color:#d44950}.twilightEnlighterJSTabPane .controls li{background-color:#303030;font-size:12px;color:#f2f2f2}.twilightEnlighterJSTabPane .controls li:hover{color:#8f9657;background-color:#303030}
+.twilightEnlighterJSTabPane .controls .selected,.twilightEnlighterJSTabPane .controls .selected:hover{background-color:#000}pre.twilightEnlighterJS{background-color:#141414}.twilightEnlighterJS span{color:#f8f8f8}ol.twilightEnlighterJS{color:#000;background-color:#f2f2f2;list-style-type:decimal;border:solid 1px #222}ol.twilightEnlighterJS li{border:0;border-left:1px solid #939393;line-height:19px;background-color:#141414}
+ol.twilightEnlighterJS li.hoverEnabled:hover{background-color:#202021;border:0;border-left:1px solid #939393}ol.twilightEnlighterJS li.specialline{background-color:#202021}.twilightEnlighterJS .de1{color:#fff}.twilightEnlighterJS .de2{color:#fff}.twilightEnlighterJS .kw1{color:#cda869}.twilightEnlighterJS .kw2{color:#f9ee98}.twilightEnlighterJS .kw3{color:#6f87a8}.twilightEnlighterJS .kw4{color:#e96546}
+.twilightEnlighterJS .co1{color:#5f5a60}.twilightEnlighterJS .co2{color:#5f5a60}.twilightEnlighterJS .st0{color:#8f9657}.twilightEnlighterJS .st1{color:#8f9657}.twilightEnlighterJS .st2{color:#8f9657}.twilightEnlighterJS .nu0{color:#cf6745}.twilightEnlighterJS .me0{color:#fff}.twilightEnlighterJS .me1{color:#fff}.twilightEnlighterJS .br0{color:#fff}.twilightEnlighterJS .sy0{color:#fff}.twilightEnlighterJS .es0{color:#fff}
+.twilightEnlighterJS .re0{color:#e57a27}

diff --git a/views/admin/settings.js b/views/admin/settings.js
@@ -55,6 +55,12 @@
 			jQuery('#enlighter-customLinenumberLineHeight').val(ThemeStyles[theme].linenumbers[2]);
 			setElementColor('#enlighter-customLinenumberFontColor', ThemeStyles[theme].linenumbers[3]);
 			
+			// set special styles
+			jQuery('#enlighter-customLineHighlightColor').val(ThemeStyles[theme].special.highlightColor);
+			setElementColor('#enlighter-customLineHighlightColor', ThemeStyles[theme].special.highlightColor);
+			jQuery('#enlighter-customLineHoverColor').val(ThemeStyles[theme].special.hoverColor);
+			setElementColor('#enlighter-customLineHoverColor', ThemeStyles[theme].special.hoverColor);
+			
 			// set token styles
 			jQuery.each(ThemeStyles[theme].tokens, function(key, value){
 				// foreground color
@@ -91,6 +97,12 @@
 			
 			/* font family, font-size, line-height, font-color */
 			'linenumbers': [null, '10px', null, '#939393'],
+			
+			/* special stykes */
+			'special': {
+				hoverColor: '#F4F8FC',
+				highlightColor: '#F4F8FC'
+			},
 						
 			'tokens': {
 				/* foreground color, text style, text line style, background color */
@@ -117,6 +129,10 @@
 		'git': {
 			'sourcefont': ['Courier, Monospace', '12px', '16px', '#000000'],
 			'linenumbers': [null, '10px', null,  '#939393'],
+			'special': {
+				hoverColor: '#ffffcc',
+				highlightColor: '#fffff2'
+			},
 			'tokens': {
 				'kw1': ['#000000', 'bold', null, null],
 				'kw2': ['#0086b3', null, null, null],
@@ -141,6 +157,10 @@
 		'mocha': {
 			'sourcefont': ['Monaco, Courier, Monospace', '12px', '16px', '#f8f8f8'],
 			'linenumbers': [null, '10px', null, '#939393'],
+			'special': {
+				hoverColor: '#423F43',
+				highlightColor: '#423F43'
+			},
 			'tokens': {
 				'kw1': ['#CDA869', null, null, null],
 				'kw2': ['#CACD69', null, null, null],
@@ -165,6 +185,10 @@
 		'panic': {
 			'sourcefont': ['Monaco, Courier, Monospace', '12px', '16px', '#000000'],
 			'linenumbers': [null, '10px', null, '#939393'],
+			'special': {
+				hoverColor: '#F4F8FC',
+				highlightColor: '#F4F8FC'
+			},
 			'tokens': {
 				'kw1': ['#9F0050', null, null, null],
 				'kw2': ['#9F0050', null, null, null],
@@ -189,6 +213,10 @@
 		'tutti': {
 			'sourcefont': ['Monaco, Courier, Monospace', '12px', '16px', '#000000'],
 			'linenumbers': [null, '10px', null, '#939393'],
+			'special': {
+				hoverColor: '#F4F8FC',
+				highlightColor: '#F4F8FC'
+			},
 			'tokens': {
 				'kw1': ['#8600c9', null, null, null],
 				'kw2': ['#3a1d72', 'bold', null, null],
@@ -213,6 +241,10 @@
 		'twilight': {
 			'sourcefont': ['Monaco, Courier, Monospace', '12px', '16px', '#f8f8f8'],
 			'linenumbers': [null, '10px', null, '#939393'],
+			'special': {
+				hoverColor: '#202021',
+				highlightColor: '#202021'
+			},
 			'tokens': {
 				'kw1': ['#CDA869', null, null, null],
 				'kw2': ['#F9EE98', null, null, null],

diff --git a/views/css/mocha.css b/views/css/mocha.css
@@ -31,10 +31,16 @@ ol.wpcustomEnlighterJS li{
 	background-color: #2D2522;
 }
 ol.wpcustomEnlighterJS li.hoverEnabled:hover{
-	background-color: #423F43;
+	background-color: $(HOVER_BG_COLOR);
 	border: none;
 	border-left: 2px solid #939393;
 }
+
+/* special line highlight color */
+ol.wpcustomEnlighterJS li.specialline {
+	background-color: $(HIGHLIGHT_BG_COLOR);
+}
+
 pre.wpcustomEnlighterJS {
 	background-color: #2D2522;
 }

diff --git a/views/css/standard.css b/views/css/standard.css
@@ -21,6 +21,15 @@ ol.wpcustomEnlighterJS, ol.wpcustomEnlighterJS li {
 	$(FONTSTYLE)
 }
 
+/* special line highlight color */
+ol.wpcustomEnlighterJS li.specialline {
+	background-color: $(HIGHLIGHT_BG_COLOR);
+}
+
+ol.wpcustomEnlighterJS li.hoverEnabled:hover{
+	background-color: $(HOVER_BG_COLOR);
+}
+
 /* theme symbol styles */
 .wpcustomEnlighterJS .de1 { $(DE1) }
 .wpcustomEnlighterJS .de2 { $(DE2) }

diff --git a/views/css/twilight.css b/views/css/twilight.css
@@ -41,9 +41,14 @@ ol.wpcustomEnlighterJS li{
 	background-color: #141414;
 }
 ol.wpcustomEnlighterJS li.hoverEnabled:hover{
-	background-color: #202021;
+	background-color: $(HOVER_BG_COLOR);
 	border: none;
 	border-left: 1px solid #939393;
+}
+
+/* special line highlight color */
+ol.wpcustomEnlighterJS li.specialline {
+	background-color: $(HIGHLIGHT_BG_COLOR);
 }
 
 /* LIST specific styles */

diff --git a/views/css/panic.css b/views/css/panic.css
@@ -25,6 +25,15 @@ ol.wpcustomEnlighterJS, ol.wpcustomEnlighterJS li {
 	$(LINESTYLE)
 }
 
+ol.wpcustomEnlighterJS li.hoverEnabled:hover{
+	background-color: $(HOVER_BG_COLOR);
+}
+
+/* special line highlight color */
+ol.wpcustomEnlighterJS li.specialline {
+	background-color: $(HIGHLIGHT_BG_COLOR);
+}
+
 /* default symbol style */
 .wpcustomEnlighterJS span {
 	$(FONTSTYLE)

diff --git a/views/css/tutti.css b/views/css/tutti.css
@@ -21,8 +21,13 @@ ol.wpcustomEnlighterJS li:hover{
 	color: #000000;
 }
 ol.wpcustomEnlighterJS li.hoverEnabled:hover{
-	background-color: #F4F8FC;
+	background-color: $(HOVER_BG_COLOR);
 	border: none;
+}
+
+/* special line highlight color */
+ol.wpcustomEnlighterJS li.specialline {
+	background-color: $(HIGHLIGHT_BG_COLOR);
 }
 
 /* LIST specific styles */

diff --git a/views/css/git.css b/views/css/git.css
@@ -26,8 +26,13 @@ ol.wpcustomEnlighterJS li{
 
 /* hover color */
 ol.wpcustomEnlighterJS li.hoverEnabled:hover{
-	background-color: #ffffcc;
+	background-color: $(HOVER_BG_COLOR);
 	border: none;
+}
+
+/* special line highlight color */
+ol.wpcustomEnlighterJS li.specialline {
+	background-color: $(HIGHLIGHT_BG_COLOR);
 }
 
 /* non leading zero */

diff --git a/views/admin/settings.css b/views/admin/settings.css
@@ -1,0 +1,7 @@
+.EnlighterBlockcontent{
+	padding: 5px 10px 10px 10px;
+	margin: 0px 0px 20px 0px;
+	border: solid 1px #e0e0e0;
+	border-radius: 5px;
+	background-color: #f9f9f9;
+}

diff --git a/class/ShortcodeHandler.php b/class/ShortcodeHandler.php
@@ -79,7 +79,8 @@ class Enlighter_ShortcodeHandler{
 						'theme' => $this->_config['defaultTheme'],
 						'lang' => $this->_config['defaultLanguage'],
 						'group' => false,
-						'tab' => false
+						'tab' => false,
+						'highlight' => ''
 				), $shortcodeAttributes);
 	
 		// html "pre"-tag attributes
@@ -87,6 +88,7 @@ class Enlighter_ShortcodeHandler{
 				'data-enlighter-language' => $tagname,
 				'data-enlighter-theme' => $shortcodeAttributes['theme'],
 				'data-enlighter-title' => $shortcodeAttributes['tab'],
+				'data-enlighter-highlight' => $shortcodeAttributes['highlight'],
 				'class' => 'EnlighterJSRAW'
 		);
 	
@@ -115,7 +117,8 @@ class Enlighter_ShortcodeHandler{
 						'theme' => $this->_config['defaultTheme'],
 						'lang' => $this->_config['defaultLanguage'],
 						'group' => false,
-						'tab' => false
+						'tab' => false,
+						'highlight' => ''
 				), $shortcodeAttributes);
 	
 		// html "pre"-tag attributes
@@ -123,6 +126,7 @@ class Enlighter_ShortcodeHandler{
 				'data-enlighter-language' => $shortcodeAttributes['lang'],
 				'data-enlighter-theme' => $shortcodeAttributes['theme'],
 				'data-enlighter-title' => $shortcodeAttributes['tab'],
+				'data-enlighter-highlight' => $shortcodeAttributes['highlight'],
 				'class' => 'EnlighterJSRAW'
 		);
 	
@@ -167,6 +171,13 @@ class Enlighter_ShortcodeHandler{
 	 * @param String $content
 	 */
 	private function removeWpAutoP($content){
-		return str_replace(array('<br />', '<p>', '</p>'), array('', '', "\n"), $content);
+		// wpautop priority changed ?
+		if ($this->_config['wpAutoPFilterPriority']!='default'){
+			// no modification needed
+			return $content;
+		}else{
+			// fallback: remove added tags - will work on most cases
+			return str_replace(array('<br />', '<p>', '</p>'), array('', '', "\n"), $content);
+		}
 	}
 }

diff --git a/class/Enlighter.php b/class/Enlighter.php
@@ -1,7 +1,7 @@
 <?php
 /**
 	Enlighter Class
-	Version: 1.0
+	Version: 1.5
 	Author: Andi Dittrich
 	Author URI: http://andidittrich.de
 	Plugin URI: http://www.a3non.org/go/enlighterjs
@@ -49,7 +49,10 @@ class Enlighter{
 		'customLinenumberFontFamily' => 'Monaco, Courier, Monospace',
 		'customLinenumberFontSize' => '10px',
 		'customLinenumberLineHeight' => '15px',
-		'customLinenumberFontColor' => '#000000'
+		'customLinenumberFontColor' => '#000000',
+		'customLineHighlightColor' => '#f0f0ff',
+		'customLineHoverColor' => '#f0f0ff',		
+		'wpAutoPFilterPriority' => '12'	
 	);
 	
 	// list of micro shortcodes (supported languages)
@@ -158,6 +161,12 @@ class Enlighter{
 				add_action('wp_head', array($this->_resourceLoader, 'appendMetadataConfig'));
 			}else{
 				add_action('wp_head', array($this->_resourceLoader, 'appendJavascriptConfig'));
+			}
+			
+			// change wpauto filter priority ?
+			if ($this->_config['wpAutoPFilterPriority']!='default'){
+				remove_filter('the_content', 'wpautop');
+				add_filter('the_content', 'wpautop' , 12);
 			}
 		}
 	}
